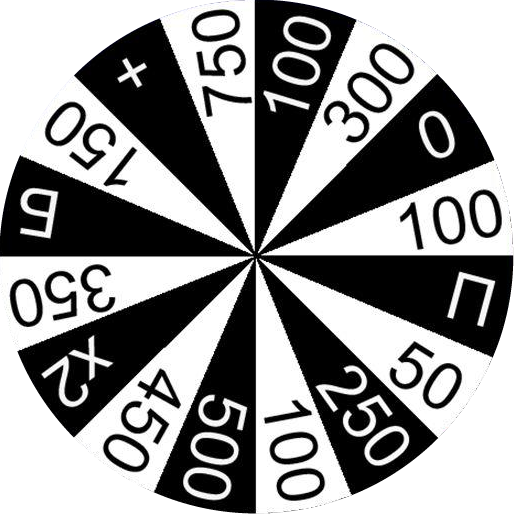
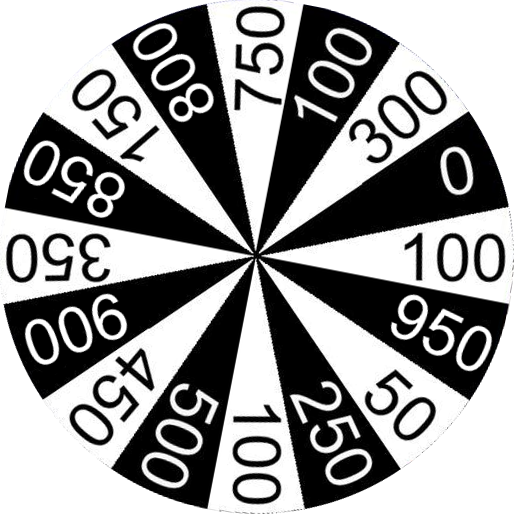
Готово со стрелкой

diff --git a/js/main.js b/js/main.js
@@ -18,6 +18,11 @@ let scores = 0
 let moveScores = 0
 let errors = 0
 
+let currentSector = 0
+let currentDeg = 0
+
+const sectors = [0,300,100,750,800,150,850,350,900,450,500,100,250,50,950,100]
+
 const giftPrice = [200, 400, 500]
 const prizePrice = [1000, 2000, 3000]
 
@@ -40,14 +45,30 @@ function start() {
 // крутим колесо
 // wheelWrap img
 function spinWheel() {
+    let randSector = Math.floor(Math.random()*16+1)
+    currentSector += randSector
+    console.log(currentSector)
+    if (currentSector > 16) {
+        currentSector = currentSector % 16
+    }
+    console.log(currentSector)
+    let randDeg = randSector*22.5
+    currentDeg += randDeg
+    console.log(currentDeg, randDeg)
     if ($('#spin').classList !== 'spinWheel') {
+
+        document.documentElement.style.setProperty('--spinDeg', randDeg + 'deg');
+        // document.documentElement.style.setProperty('--currentDeg', randDeg);
         $('#spin').addClass('spinWheel')
     }
     setTimeout(function (){
         $('#spin').removeClass('spinWheel')
-        moveScores = Math.floor(Math.random()*15+1)*50
+        // moveScores = Math.floor(Math.random()*15+1)*50
+        moveScores = sectors[currentSector-1]
+        document.documentElement.style.setProperty('--currentDeg', currentDeg + 'deg');
+        // console.log(randSector, randDeg)
         makeGuess()
-    },1500)
+    },1400)
 }
 
 // угадываем букву

diff --git a/css/main.css b/css/main.css
@@ -45,11 +45,13 @@ body{
     flex-direction: column;
     align-items: center;
     justify-content: center;
+    z-index: 100;
 }
 
 #gameWrap{
     height: 65%;
     position: relative;
+
 }
 
 #hostWrap{
@@ -59,6 +61,10 @@ body{
 
 #prizesWrap, #giftsWrap{
     height: 25%;
+}
+
+#guessLetter, #submitLetter{
+    z-index: 100;
 }
 
 /*барабан*/
@@ -76,12 +82,14 @@ body{
     border: none;
     background-color: unset;
     cursor: pointer;
+    transform: rotate(var(--currentDeg));
+    z-index: 0;
 }
 
 #spin img{
     /*height: 100%;*/
     width: 100%;
-
+    z-index: 0;
 }
 
 #spin:disabled{
@@ -92,12 +100,18 @@ body{
 .spinWheel{
     animation: spin 1.5s ease;
 }
+
+:root{
+    --spinDeg: 0deg;
+    --currentDeg: 0deg;
+}
+
 @keyframes spin {
     from{
         rotate: 0;
     }
     to{
-        rotate: calc(360deg*2);
+        rotate: calc(var(--spinDeg));
     }
 }
 /*колесо*/

diff --git a/index.html b/index.html
@@ -30,7 +30,7 @@
 
           <div id="wheelWrap">
               <button id="spin"><img src="img/wheel.png" alt="wheel"></button>
-<!--              <img id="arrow" src="img/arrow.png" alt="arrow">-->
+              <img id="arrow" src="img/arrow.png" alt="arrow">
           </div>
 
 
